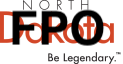
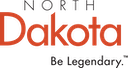
replace FPO images and update sizes

diff --git a/src/cobranding/Cobranding.js b/src/cobranding/Cobranding.js
@@ -8,23 +8,23 @@ import cobrandingLightSrc from "../assets/images/us_nd_cobranding_light.png";
 const COBRANDING_ALT = "North Dakota";
 const COBRANDING_URL = "https://www.docr.nd.gov/";
 
-export const RecidivizBrandingContainer = styled.div`
-  align-items: center;
-  display: flex;
+const CobrandingLink = styled.a`
+  align-self: flex-start;
 `;
-export const BrandingLink = styled.a`
-  margin-left: 16px;
+
+const CobrandingImg = styled.img`
+  height: 34px;
+  width: 64px;
 `;
-export const RecidivizBranding = styled.img``;
 
 export default function Cobranding({ light }) {
   return (
-    <BrandingLink href={COBRANDING_URL}>
-      <RecidivizBranding
+    <CobrandingLink href={COBRANDING_URL}>
+      <CobrandingImg
         alt={COBRANDING_ALT}
         src={light ? cobrandingLightSrc : cobrandingSrc}
       />
-    </BrandingLink>
+    </CobrandingLink>
   );
 }
 

diff --git a/src/footer/Footer.js b/src/footer/Footer.js
@@ -8,11 +8,7 @@ import { fluidFontSizeStyles } from "../utils";
 import { BODY_FONT_SIZE, CONTAINER_WIDTH } from "../constants";
 import RecidivizSrc from "../assets/icons/recidiviz.svg";
 
-import Cobranding, {
-  BrandingLink,
-  RecidivizBranding,
-  RecidivizBrandingContainer,
-} from "../cobranding";
+import Cobranding from "../cobranding";
 
 const FooterContainer = styled.footer`
   color: ${(props) => props.theme.colors.footer};
@@ -70,6 +66,17 @@ const PrivacyLink = styled.a`
     color: ${(props) => props.theme.colors.footer};
   }
 `;
+
+const RecidivizBrandingContainer = styled.div`
+  align-items: center;
+  display: flex;
+`;
+
+const BrandingLink = styled.a`
+  margin-left: 16px;
+`;
+
+const RecidivizBranding = styled.img``;
 
 export default function Footer() {
   const showExpandedFooter = useBreakpoint(false, ["tablet+", true]);
